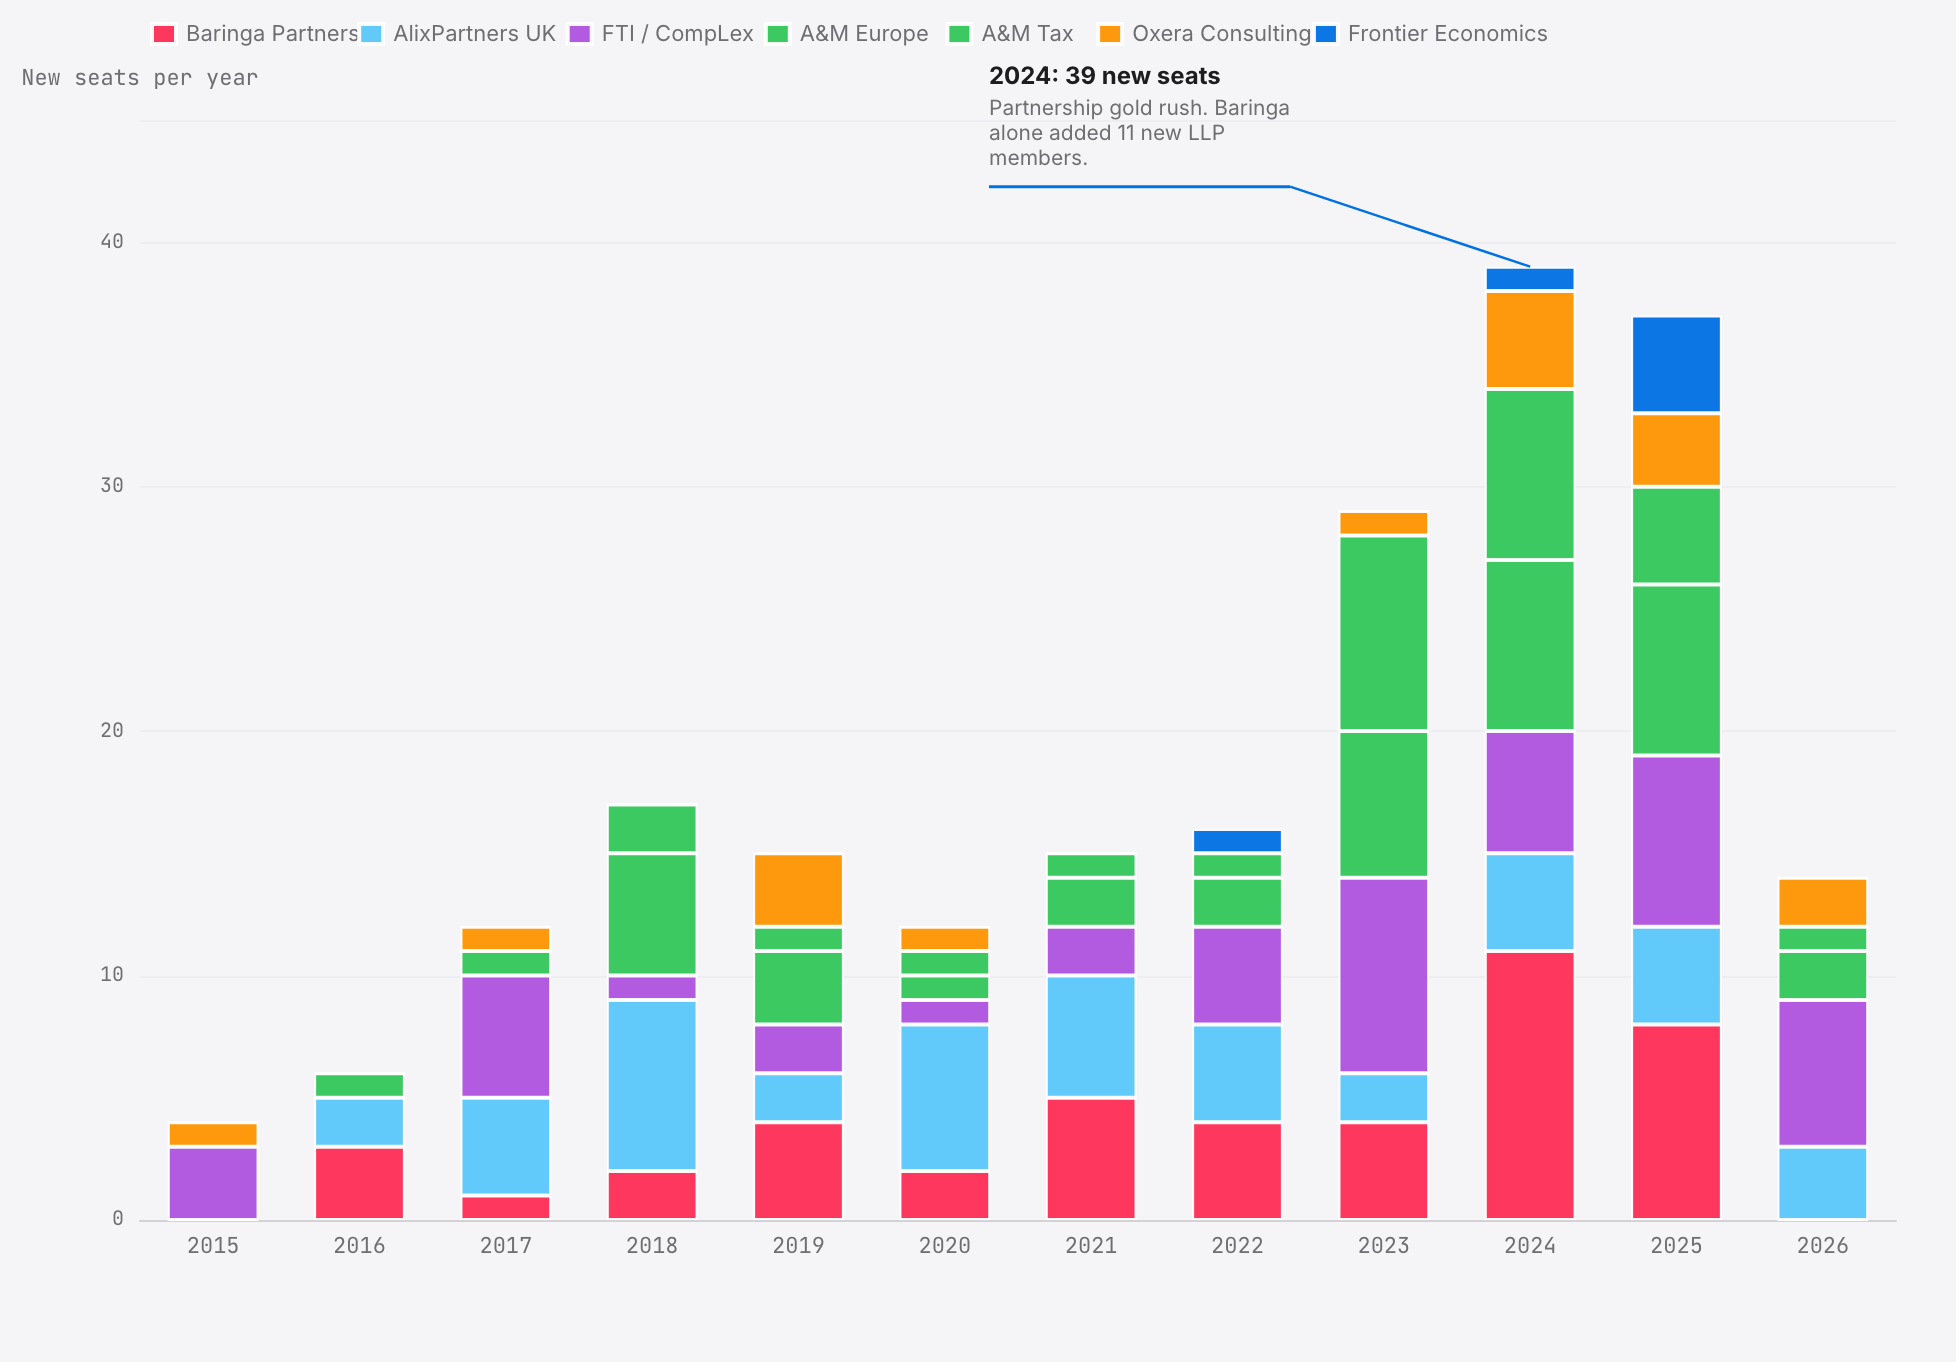
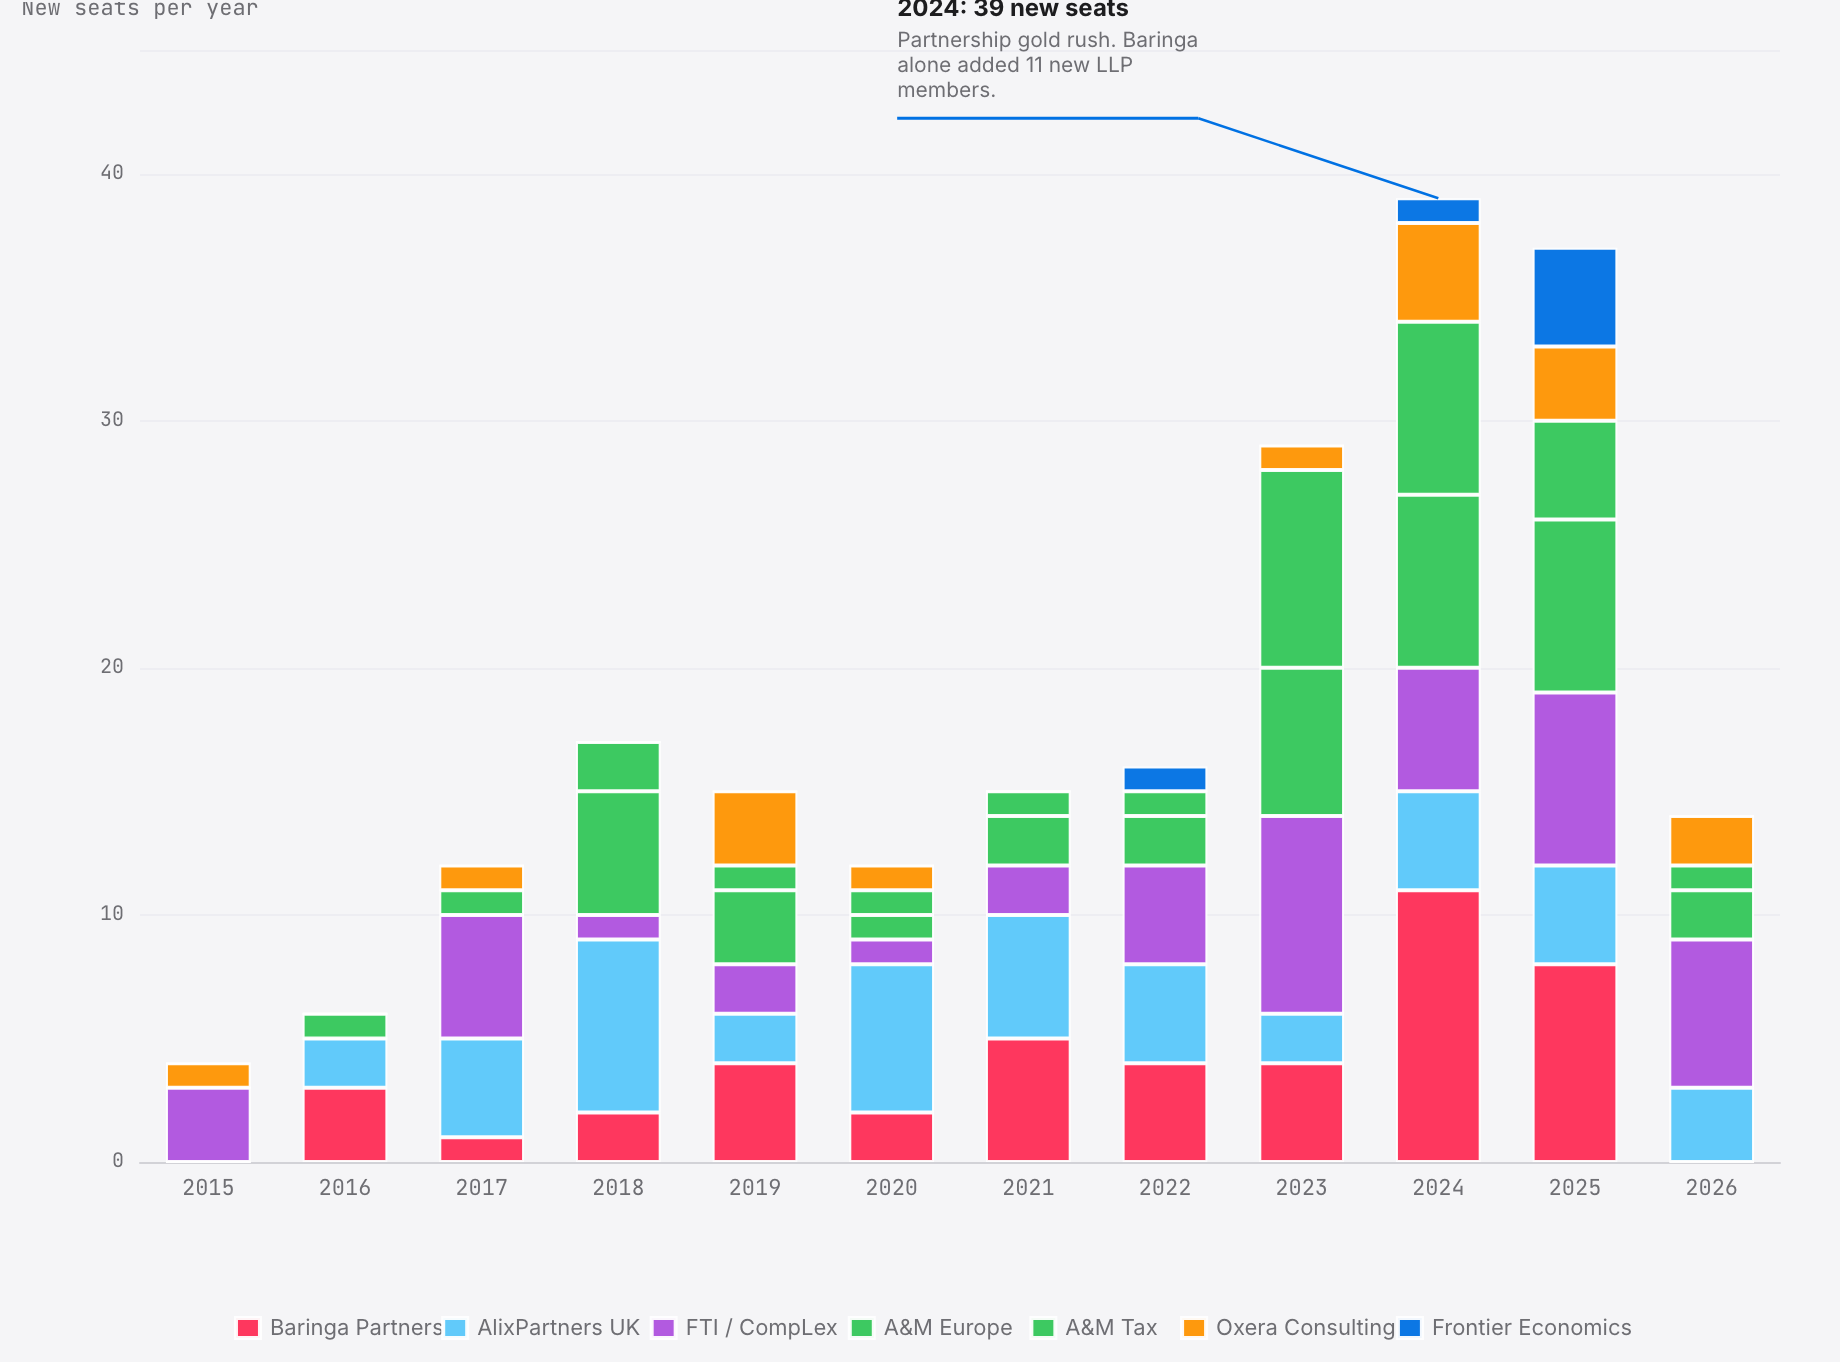
Part 0.1: move firm legend to bottom of Director/LLP appointments chart
Chart-7b's seven-firm colour legend was at the top of the chart,
crowding the chart title and the d3-annotation callout. Moved to
bottom-centre and adjusted grid (top 60->24, bottom 70->100). Applies to
both the Appointments/Departures view and the Net view.

diff --git a/blog/consultancy-series/part0.1-visual-story.html b/blog/consultancy-series/part0.1-visual-story.html
@@ -1668,7 +1668,7 @@ function renderSeats(mode = 'appointments') {
   });
   chart7b.setOption({
     ...DEFAULTS,
-    grid: {top: 60, bottom: 70, left: 70, right: 30},
+    grid: {top: 24, bottom: 100, left: 70, right: 30},
     tooltip: {
       ...DEFAULTS.tooltip, trigger: 'axis', axisPointer: {type: 'shadow'},
       formatter: params => {
@@ -1678,7 +1678,7 @@ function renderSeats(mode = 'appointments') {
         return `<b>${year}</b> — ${total} ${cfg.tooltipLabel}<br>${rows}`;
       }
     },
-    legend: { top: 6, left: 70, right: 0, data: Object.keys(firms), textStyle: {color: THEME_TEXT_DIM, fontSize: 11, fontFamily: 'Inter'}, itemWidth: 12, itemHeight: 10, itemGap: 12, icon: 'rect' },
+    legend: { bottom: 6, left: 'center', data: Object.keys(firms), textStyle: {color: THEME_TEXT_DIM, fontSize: 11, fontFamily: 'Inter'}, itemWidth: 12, itemHeight: 10, itemGap: 12, icon: 'rect' },
     xAxis: { type: 'category', data: years, axisLabel: {color: THEME_TEXT_DIM, fontFamily: 'JetBrains Mono', fontSize: 11}, axisLine: AXIS_LINE, axisTick: {show: false} },
     yAxis: { type: 'value', max: cfg.yMax, name: cfg.yName, nameTextStyle:{color: THEME_TEXT_DIM, fontSize: 11, fontFamily:'JetBrains Mono'}, axisLabel: {...AXIS_LABEL, showMaxLabel: false}, axisLine: AXIS_LINE, splitLine: SPLIT_LINE },
     series,
@@ -1734,7 +1734,7 @@ function renderSeatsNet() {
   });
   chart7b.setOption({
     ...DEFAULTS,
-    grid: {top: 60, bottom: 70, left: 70, right: 30},
+    grid: {top: 24, bottom: 100, left: 70, right: 30},
     tooltip: {
       ...DEFAULTS.tooltip, trigger: 'axis', axisPointer: {type: 'shadow'},
       formatter: params => {
@@ -1747,7 +1747,7 @@ function renderSeatsNet() {
         return `<b>${year}</b> — net ${yearNet[idx]>=0?'+':''}${yearNet[idx]}<br>${firmRows}`;
       }
     },
-    legend: { top: 6, left: 70, right: 0, data: Object.keys(perFirmNet), textStyle: {color: THEME_TEXT_DIM, fontSize: 11, fontFamily: 'Inter'}, itemWidth: 12, itemHeight: 10, itemGap: 12, icon: 'rect' },
+    legend: { bottom: 6, left: 'center', data: Object.keys(perFirmNet), textStyle: {color: THEME_TEXT_DIM, fontSize: 11, fontFamily: 'Inter'}, itemWidth: 12, itemHeight: 10, itemGap: 12, icon: 'rect' },
     xAxis: { type: 'category', data: years, axisLabel: {color: THEME_TEXT_DIM, fontFamily: 'JetBrains Mono', fontSize: 11}, axisLine: AXIS_LINE, axisTick: {show: false} },
     yAxis: { type: 'value', name: 'Net change', nameTextStyle:{color: THEME_TEXT_DIM, fontSize: 11, fontFamily:'JetBrains Mono'}, axisLabel: AXIS_LABEL, axisLine: AXIS_LINE, splitLine: SPLIT_LINE },
     series,
